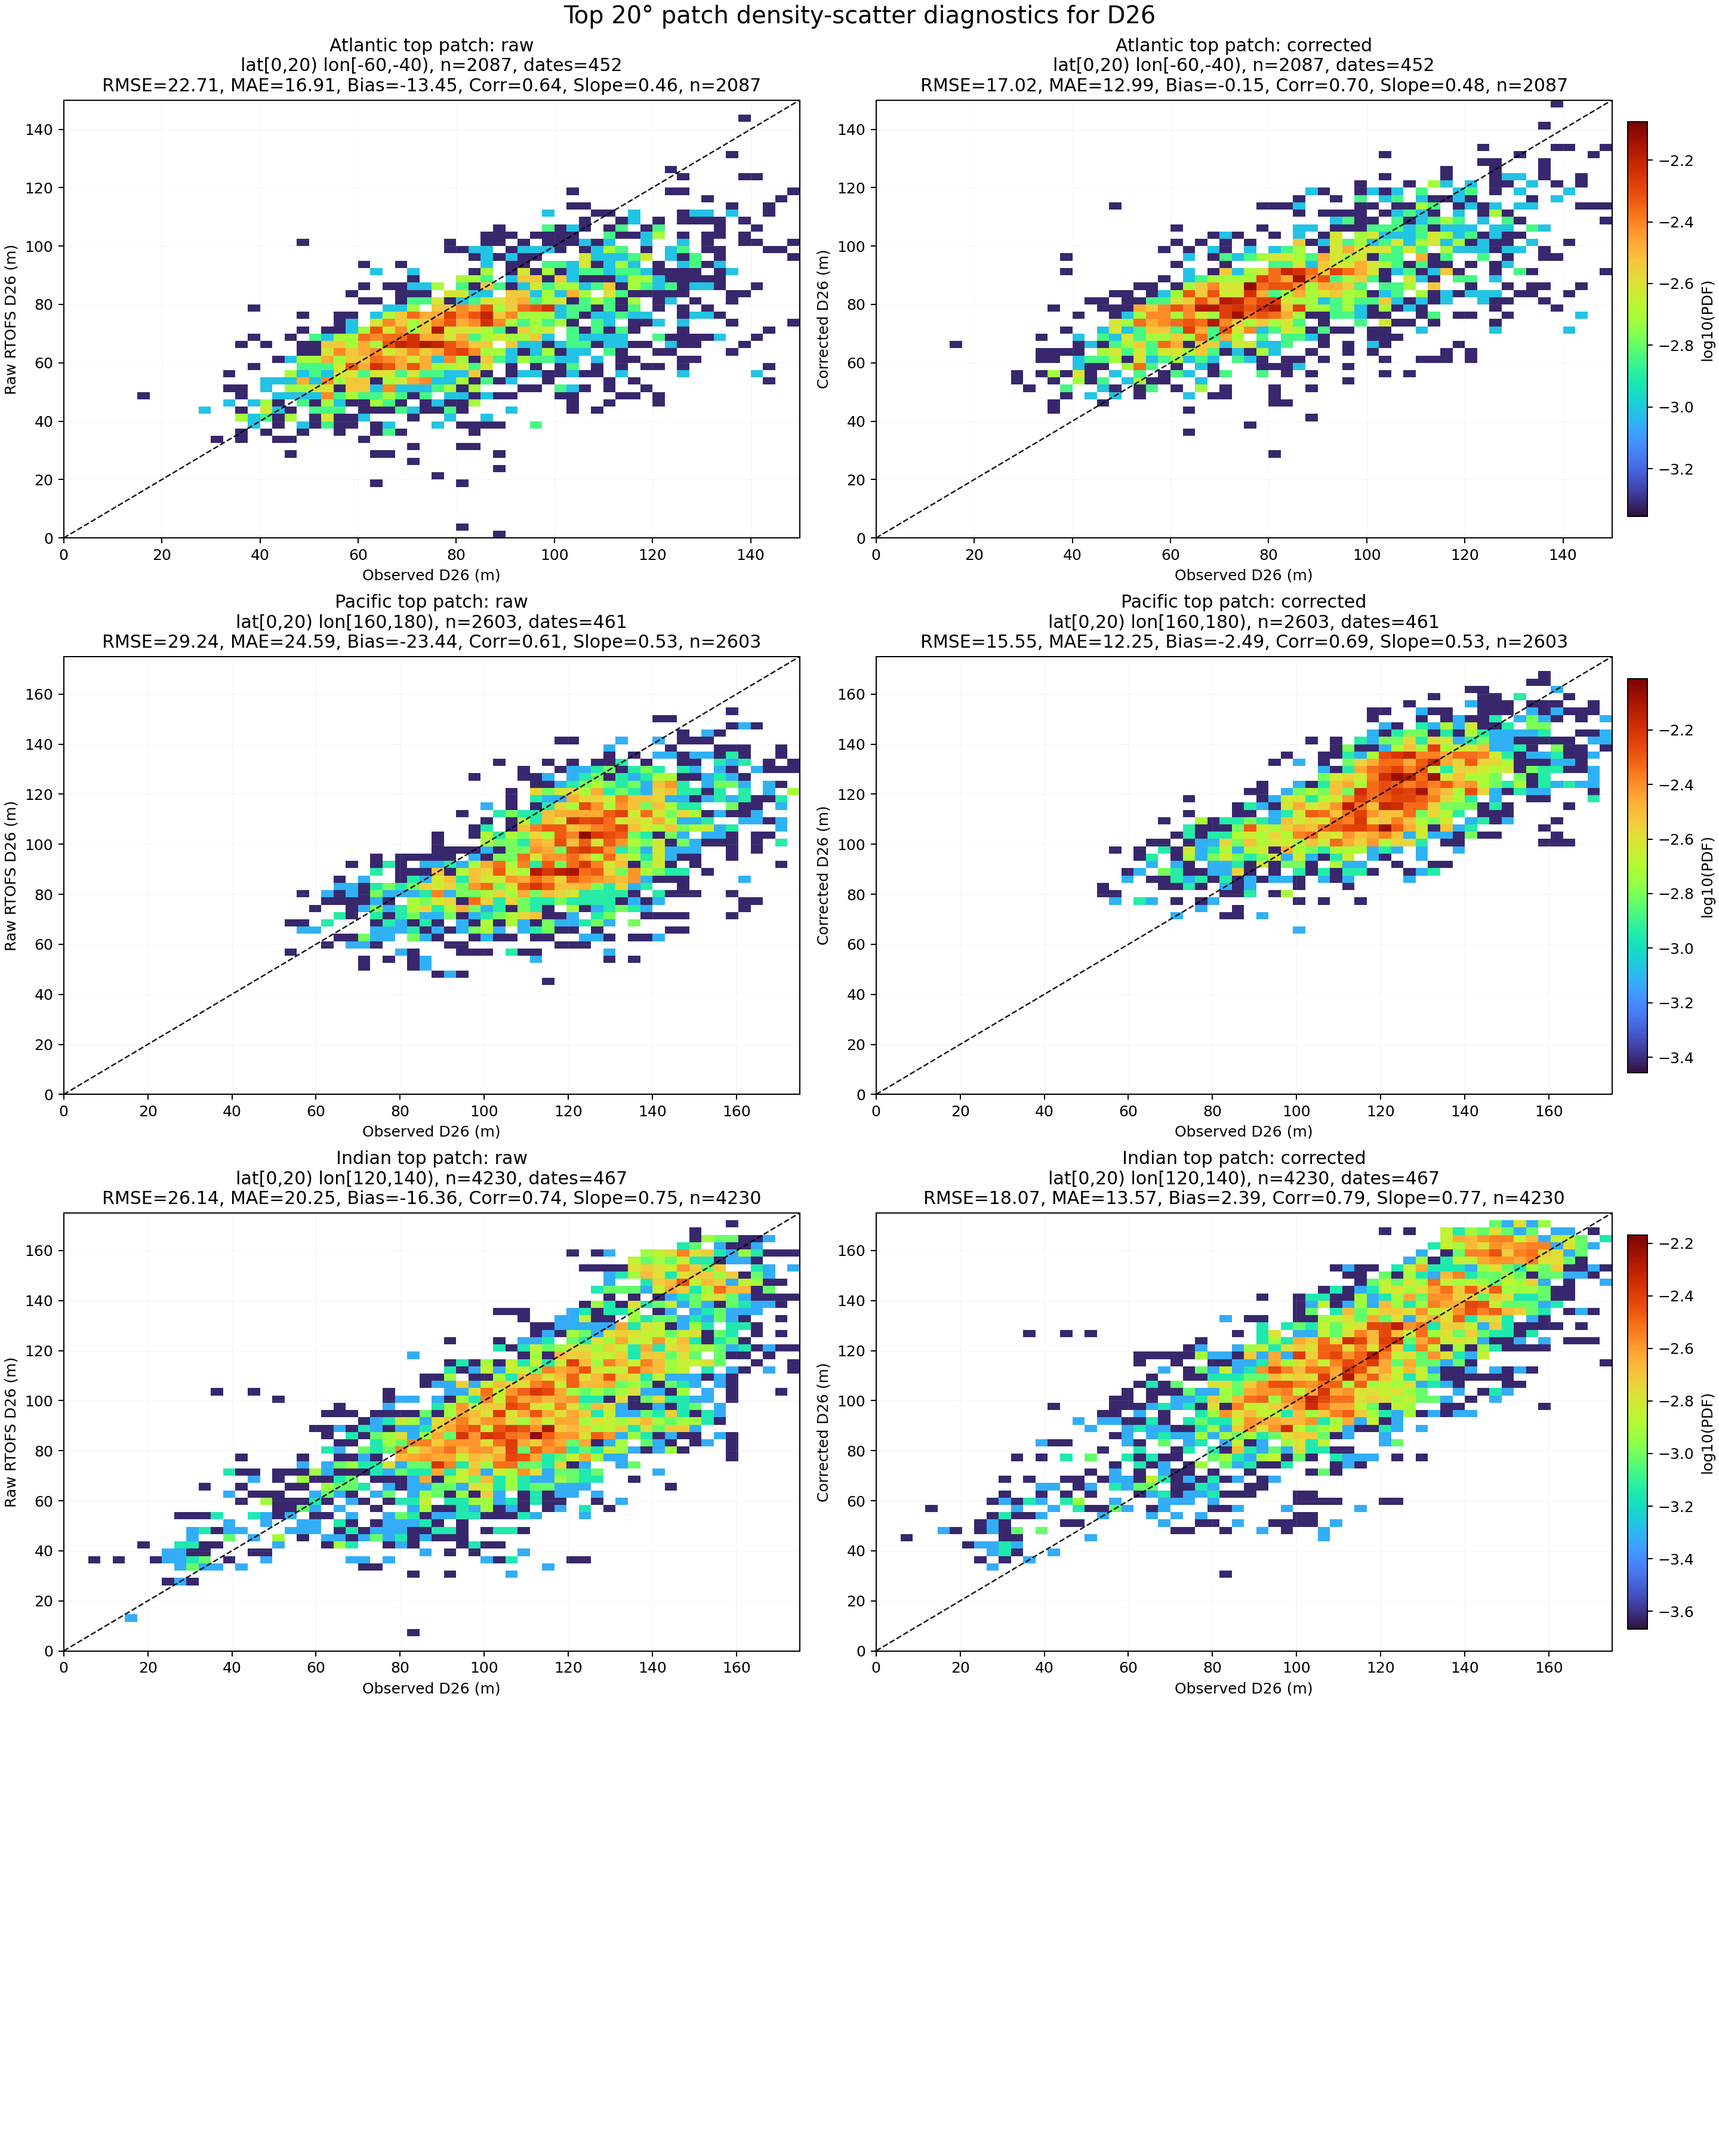
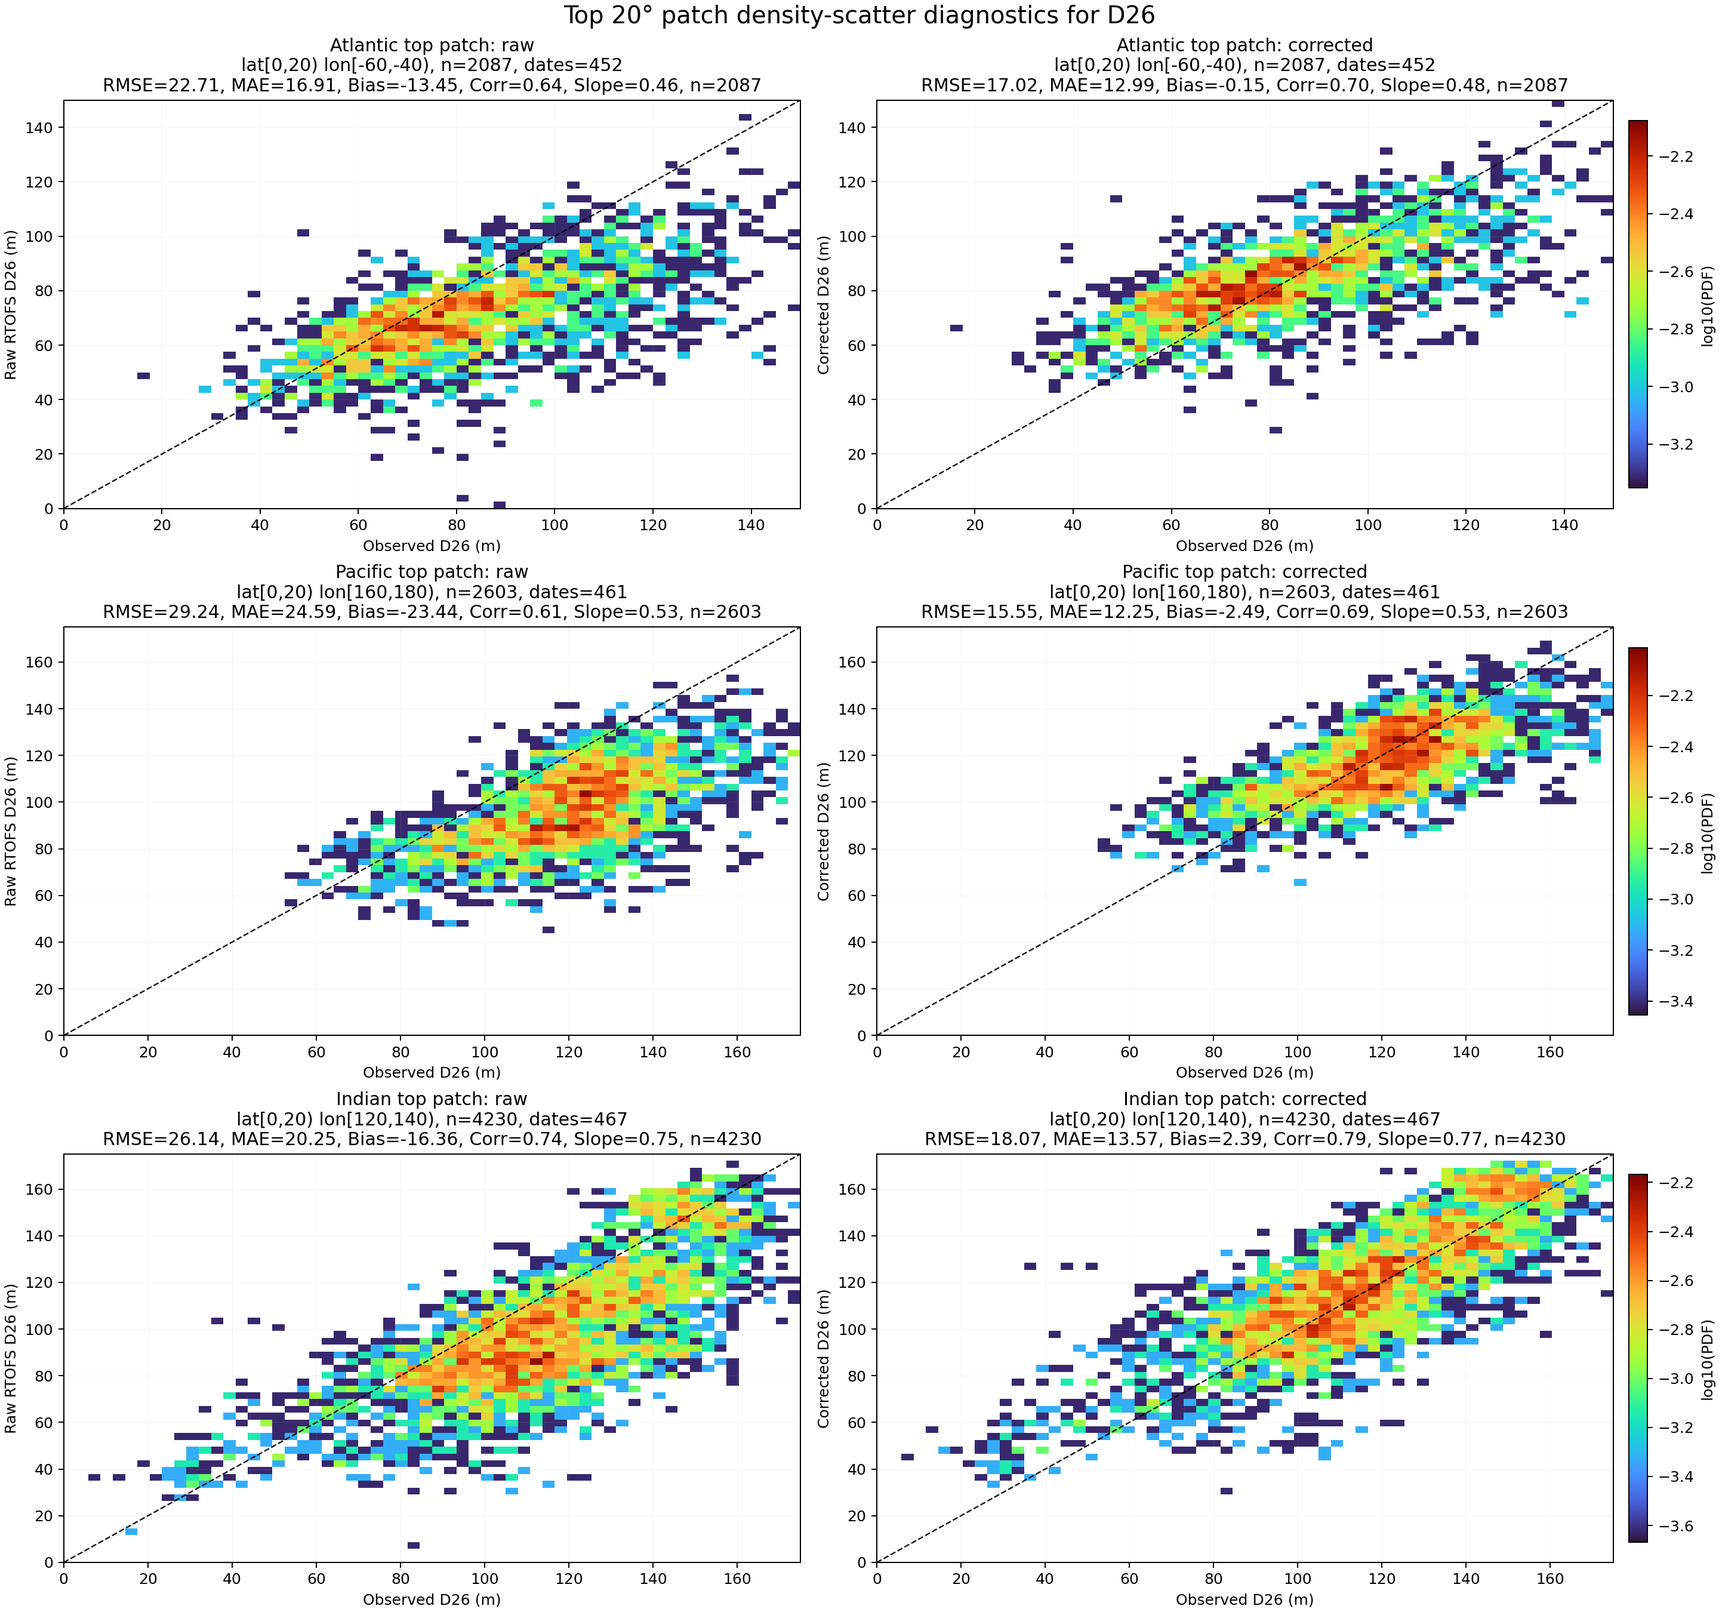
Declutter diagnostics: drop empty regions, add curated feature gallery
Macro-region and top-patch figures now render only regions with valid
rows (high-latitude TCHP/D26 is undefined by construction, so its empty
panels carried no information). Feature gallery gains a --curated mode
rendering only the features used by the recommended recipes (9 sheets
instead of 17) into a separate *_curated output dir.

diff --git a/OHC/build_hhp_feature_diagnostic_gallery.py b/OHC/build_hhp_feature_diagnostic_gallery.py
@@ -382,7 +382,38 @@ def _write_index(manifest: dict, out_path: Path) -> None:
     out_path.write_text("\n".join(lines))
 
 
+# Features actually used by the current recommended locked recipes
+# (global_pruned for TCHP, drop_both_lat_interactions for D26). The curated
+# gallery renders sheets only for these, plus the overview pages.
+RECIPE_FEATURE_COLUMNS = {
+    "model_ssh_m",
+    "model_mixed_layer_thickness_m",
+    "model_surface_boundary_layer_thickness_m",
+    "model_temp_excess_26c",
+    "d26_minus_mlt_m",
+    "d26_to_sblt_ratio",
+    "model_steric_1000_ref2000_m",
+    "model_n2_max_upper200_s2",
+    "model_n2_mean_to_d26_s2",
+}
+
+
 def main() -> None:
+    import argparse
+
+    parser = argparse.ArgumentParser(description=__doc__)
+    parser.add_argument(
+        "--curated",
+        action="store_true",
+        help="Render only features used by the current recommended recipes, into a *_curated output dir.",
+    )
+    args = parser.parse_args()
+
+    global OUT_DIR
+    if args.curated:
+        OUT_DIR = OUT_DIR.parent / f"{OUT_DIR.name}_curated"
+    specs = [s for s in FEATURE_SPECS if not args.curated or s.column in RECIPE_FEATURE_COLUMNS]
+
     paths = _prepare_out_dirs()
     df = _merge_feature_tables()
 
@@ -399,7 +430,7 @@ def main() -> None:
         "feature_sheets": [],
     }
 
-    for spec in FEATURE_SPECS:
+    for spec in specs:
         out_path = paths["feature_sheets"] / f"{spec.family}__{spec.column}.png"
         manifest["feature_sheets"].append(_render_feature_sheet(df, spec, out_path))
 
@@ -407,7 +438,9 @@ def main() -> None:
         ("steric_height", "Steric-height feature family overview"),
         ("brunt_vaisala", "Brunt-Vaisala feature family overview"),
     ]:
-        family_specs = [spec for spec in FEATURE_SPECS if spec.family == family]
+        family_specs = [spec for spec in specs if spec.family == family]
+        if not family_specs:
+            continue
         out_path = paths["family_overviews"] / f"{family}_overview.png"
         _render_family_overview(df, family_specs, out_path, title)
         manifest["family_overviews"][family] = str(out_path)

diff --git a/OHC/build_hhp_density_scatter_diagnostics.py b/OHC/build_hhp_density_scatter_diagnostics.py
@@ -438,9 +438,16 @@ def _plot_presentation_density(
 
 
 def _plot_region_density(target: TargetConfig, df: pd.DataFrame, out_path: Path, metrics_rows: list[dict]) -> None:
-    fig, axes = plt.subplots(len(REGION_ORDER), 2, figsize=(15, 20), constrained_layout=True)
+    # Only render regions with data; high_latitude has no valid TCHP/D26 rows
+    # by construction (the 26C isotherm target is undefined there).
+    regions = [
+        r for r in REGION_ORDER
+        if np.isfinite(df.loc[df["macro_region"] == r, target.obs_col].to_numpy(float)).sum() > 0
+    ]
+    fig, axes = plt.subplots(len(regions), 2, figsize=(15, 5 * len(regions)), constrained_layout=True)
+    axes = np.atleast_2d(axes)
     mesh = None
-    for i, region in enumerate(REGION_ORDER):
+    for i, region in enumerate(regions):
         sub = df[df["macro_region"] == region].copy()
         obs = sub[target.obs_col].to_numpy(float)
         raw = sub[target.raw_col].to_numpy(float)
@@ -551,16 +558,14 @@ def _plot_top_patch_density(target: TargetConfig, df: pd.DataFrame, patch_df: pd
     if selected_df.empty:
         return
 
-    nrows = len(REGION_ORDER)
+    regions = [r for r in REGION_ORDER if not selected_df[selected_df["macro_region"] == r].empty]
+    nrows = len(regions)
     ncols = 2
-    fig, axes = plt.subplots(nrows, ncols, figsize=(16, 20), constrained_layout=True)
+    fig, axes = plt.subplots(nrows, ncols, figsize=(16, 5 * nrows), constrained_layout=True)
+    axes = np.atleast_2d(axes)
     mesh = None
-    for i, region in enumerate(REGION_ORDER):
+    for i, region in enumerate(regions):
         subsel = selected_df[selected_df["macro_region"] == region].copy()
-        if subsel.empty:
-            for j in range(ncols):
-                axes[i, j].axis("off")
-            continue
         best = subsel.iloc[0]
         g = df[(df["macro_region"] == region) & (df["patch_label"] == best["patch_label"])].copy()
         obs = g[target.obs_col].to_numpy(float)

diff --git a/OHC/output/feature_diagnostics/hhp_feature_gallery_2024_2025_curated/README.md b/OHC/output/feature_diagnostics/hhp_feature_gallery_2024_2025_curated/README.md
@@ -1,0 +1,72 @@
+# HHP Feature Diagnostic Gallery
+
+This folder is organized for quick skim-review and Drive upload.
+
+- Overview: `/home/suramya/HHP-Prediction/OHC/output/feature_diagnostics/hhp_feature_gallery_2024_2025_curated/overview_collocation_gallery.png`
+- Steric family overview: `/home/suramya/HHP-Prediction/OHC/output/feature_diagnostics/hhp_feature_gallery_2024_2025_curated/family_overviews/steric_height_overview.png`
+- Brunt-Vaisala family overview: `/home/suramya/HHP-Prediction/OHC/output/feature_diagnostics/hhp_feature_gallery_2024_2025_curated/family_overviews/brunt_vaisala_overview.png`
+
+## Feature sheets
+
+### Sea-Surface Height (`model_ssh_m`)
+- Family: `global_physics`
+- Units: `m`
+- Finite rows: `321855`
+- Missing rows: `761`
+- Plot: `/home/suramya/HHP-Prediction/OHC/output/feature_diagnostics/hhp_feature_gallery_2024_2025_curated/feature_sheets/global_physics__model_ssh_m.png`
+
+### Mixed-Layer Thickness (`model_mixed_layer_thickness_m`)
+- Family: `global_physics`
+- Units: `m`
+- Finite rows: `321855`
+- Missing rows: `761`
+- Plot: `/home/suramya/HHP-Prediction/OHC/output/feature_diagnostics/hhp_feature_gallery_2024_2025_curated/feature_sheets/global_physics__model_mixed_layer_thickness_m.png`
+
+### Surface Boundary-Layer Thickness (`model_surface_boundary_layer_thickness_m`)
+- Family: `global_physics`
+- Units: `m`
+- Finite rows: `321855`
+- Missing rows: `761`
+- Plot: `/home/suramya/HHP-Prediction/OHC/output/feature_diagnostics/hhp_feature_gallery_2024_2025_curated/feature_sheets/global_physics__model_surface_boundary_layer_thickness_m.png`
+
+### Surface Temp Excess Above 26C (`model_temp_excess_26c`)
+- Family: `global_physics`
+- Units: `deg C`
+- Finite rows: `321855`
+- Missing rows: `761`
+- Plot: `/home/suramya/HHP-Prediction/OHC/output/feature_diagnostics/hhp_feature_gallery_2024_2025_curated/feature_sheets/global_physics__model_temp_excess_26c.png`
+
+### D26 Minus MLT (`d26_minus_mlt_m`)
+- Family: `global_physics`
+- Units: `m`
+- Finite rows: `92291`
+- Missing rows: `230325`
+- Plot: `/home/suramya/HHP-Prediction/OHC/output/feature_diagnostics/hhp_feature_gallery_2024_2025_curated/feature_sheets/global_physics__d26_minus_mlt_m.png`
+
+### D26 / SBLT (`d26_to_sblt_ratio`)
+- Family: `global_physics`
+- Units: `ratio`
+- Finite rows: `92291`
+- Missing rows: `230325`
+- Plot: `/home/suramya/HHP-Prediction/OHC/output/feature_diagnostics/hhp_feature_gallery_2024_2025_curated/feature_sheets/global_physics__d26_to_sblt_ratio.png`
+
+### Steric Height 1000 Ref 2000 (`model_steric_1000_ref2000_m`)
+- Family: `steric_height`
+- Units: `m`
+- Finite rows: `2785`
+- Missing rows: `319831`
+- Plot: `/home/suramya/HHP-Prediction/OHC/output/feature_diagnostics/hhp_feature_gallery_2024_2025_curated/feature_sheets/steric_height__model_steric_1000_ref2000_m.png`
+
+### Max N^2 Upper 200 m (`model_n2_max_upper200_s2`)
+- Family: `brunt_vaisala`
+- Units: `s^-2`
+- Finite rows: `3068`
+- Missing rows: `319548`
+- Plot: `/home/suramya/HHP-Prediction/OHC/output/feature_diagnostics/hhp_feature_gallery_2024_2025_curated/feature_sheets/brunt_vaisala__model_n2_max_upper200_s2.png`
+
+### Mean N^2 to D26 (`model_n2_mean_to_d26_s2`)
+- Family: `brunt_vaisala`
+- Units: `s^-2`
+- Finite rows: `848`
+- Missing rows: `321768`
+- Plot: `/home/suramya/HHP-Prediction/OHC/output/feature_diagnostics/hhp_feature_gallery_2024_2025_curated/feature_sheets/brunt_vaisala__model_n2_mean_to_d26_s2.png`
